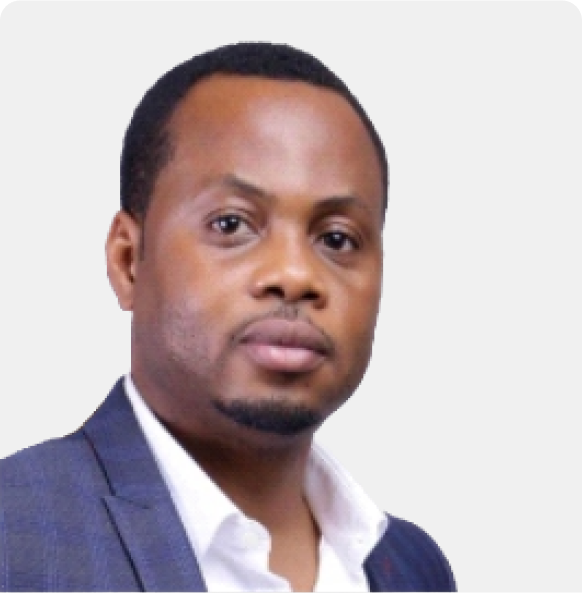
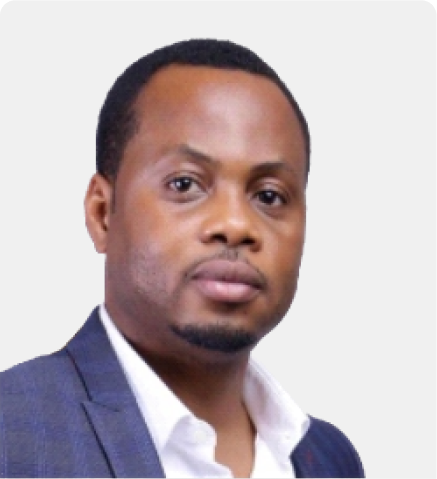
updated team images and added mission and vission to about page

Changed region(s): [[0.0297, 0.0585, 0.8627, 1.0], [0.0, 0.7599, 0.0297, 0.7891]]

diff --git a/src/modules/about/team/index.tsx b/src/modules/about/team/index.tsx
@@ -12,14 +12,29 @@ import {
   team10,
   team11,
   LinkedinIcon2,
+  team12,
+  team13,
+  team14,
 } from "assets";
 
 const Team = () => {
   const members: MemberProps[] = [
     {
+      image: team12,
+      name: "Professor Akpan Hogan Ekpo",
+      role: "Chairman Board of Directors",
+      linkedinURL: "",
+    },
+    {
+      image: team13,
+      name: "Kufre Ekpo Udeme",
+      role: "Managing Director",
+      linkedinURL: "",
+    },
+    {
       image: team1,
       name: "Tunde Obadero",
-      role: "Chief Executive Officer",
+      role: "Non Executive Director",
       linkedinURL: "https://www.linkedin.com/in/babatundeobadero/",
     },
     {
@@ -35,59 +50,65 @@ const Team = () => {
       linkedinURL: "https://www.linkedin.com/in/olaotan-olamuyiwa-30ba59112/",
     },
     {
-      image: team4,
-      name: "Obiora Onyekwelu",
-      role: "Head of Finance",
-      linkedinURL: "https://www.linkedin.com/in/obiora-onyekwelu-bb424476/",
+      image: team14,
+      name: "Olufemi Akinrotimi",
+      role: "Independent Non-Executive Director",
+      linkedinURL: "",
     },
-    {
-      image: team5,
-      name: "John Usang",
-      role: "Head, Zitra Microbusiness",
-      linkedinURL: "https://www.linkedin.com/in/john-usang-98367016b/",
-    },
-    {
-      image: team6,
-      name: "Adebola Shotinola PHRi™",
-      role: "Lead, People Operations",
-      linkedinURL: "https://www.linkedin.com/in/adebola-shotinola-phri%E2%84%A2-408828144/",
-    },
-    {
-      image: team7,
-      name: "Emmanuel Njoku",
-      role: "Head, Sales and Lending",
-      linkedinURL: "http://www.linkedin.com/in/emmanuel-njoku-a79a86a8",
-    },
-    {
-      image: team8,
-      name: "Ugochukwu Okere",
-      role: "Head of Funding",
-      linkedinURL: "https://www.linkedin.com/in/ugo-okere-4b7b02bb/",
-    },
-    {
-      image: team9,
-      name: "Nkechi Oseke",
-      role: "Head, Corporate Services",
-      linkedinURL: "https://www.linkedin.com/in/nkechi-oseke-747587318/",
-    },
-    {
-      image: team10,
-      name: "Obra Felix",
-      role: "Head Marketing, Strategy and Coms",
-      linkedinURL: "https://www.linkedin.com/in/obra-felix-436aa6154/",
-    },
-    {
-      image: team11,
-      name: "Oloriegbe Sheme",
-      role: "Head, Internal Control and Risk",
-      linkedinURL: "https://www.linkedin.com/in/sheme-oloriegbe-65218524a/",
-    },
+    // {
+    //   image: team4,
+    //   name: "Obiora Onyekwelu",
+    //   role: "Head of Finance",
+    //   linkedinURL: "https://www.linkedin.com/in/obiora-onyekwelu-bb424476/",
+    // },
+    // {
+    //   image: team5,
+    //   name: "John Usang",
+    //   role: "Head, Zitra Microbusiness",
+    //   linkedinURL: "https://www.linkedin.com/in/john-usang-98367016b/",
+    // },
+    // {
+    //   image: team6,
+    //   name: "Adebola Shotinola PHRi™",
+    //   role: "Lead, People Operations",
+    //   linkedinURL: "https://www.linkedin.com/in/adebola-shotinola-phri%E2%84%A2-408828144/",
+    // },
+    // {
+    //   image: team7,
+    //   name: "Emmanuel Njoku",
+    //   role: "Head, Sales and Lending",
+    //   linkedinURL: "http://www.linkedin.com/in/emmanuel-njoku-a79a86a8",
+    // },
+    // {
+    //   image: team8,
+    //   name: "Ugochukwu Okere",
+    //   role: "Head of Funding",
+    //   linkedinURL: "https://www.linkedin.com/in/ugo-okere-4b7b02bb/",
+    // },
+    // {
+    //   image: team9,
+    //   name: "Nkechi Oseke",
+    //   role: "Head, Corporate Services",
+    //   linkedinURL: "https://www.linkedin.com/in/nkechi-oseke-747587318/",
+    // },
+    // {
+    //   image: team10,
+    //   name: "Obra Felix",
+    //   role: "Head Marketing, Strategy and Coms",
+    //   linkedinURL: "https://www.linkedin.com/in/obra-felix-436aa6154/",
+    // },
+    // {
+    //   image: team11,
+    //   name: "Oloriegbe Sheme",
+    //   role: "Head, Internal Control and Risk",
+    //   linkedinURL: "https://www.linkedin.com/in/sheme-oloriegbe-65218524a/",
+    // },
   ];
   return (
     <>
       <section className={styles.bg}>
         <div className={`container ${styles.teamSec}`}>
-          <h2 className={styles.ttl}>Meet our team</h2>
+          <h3 className={styles.ttl}>Meet our team</h3>
           <p className={styles.txt}>
             Our team is built of exceptional professionals with years experience
             suited to meet your every needs

diff --git a/src/modules/about/missionVision/styles.module.scss b/src/modules/about/missionVision/styles.module.scss
@@ -1,0 +1,59 @@
+.container {
+  padding-top: 4rem;
+  padding-bottom: 4rem;
+  display: grid;
+  grid-template-columns: repeat(auto-fit, minmax(250px, 2fr));
+  gap: 2rem;
+}
+.container {
+  div {
+    background-color: #f2f2f2;
+    padding: 1.5rem;
+    border-radius: 16px;
+
+    &:first-of-type {
+      p {
+        width: 90%;
+      }
+    }
+
+    &:last-of-type {
+      p {
+        width: 70%;
+      }
+    }
+  }
+}
+.ttl {
+  color: #101319;
+  margin-bottom: 1rem;
+  font-size: 30px;
+}
+.txt {
+  color: #96999f;
+  font-size: 18px;
+  line-height: 1.5;
+}
+
+@media screen and (max-width: 800px) {
+  .container {
+    padding-top: 2rem;
+    padding-bottom: 2rem;
+    gap: 1rem;
+
+    div {
+      padding: 1rem;
+
+      p {
+        width: 90% !important;
+      }
+    }
+  }
+  .ttl {
+    font-size: 20px;
+    margin-bottom: 12px;
+  }
+  .txt {
+    font-size: 14px;
+  }
+}

diff --git a/src/modules/about/missionVision/index.tsx b/src/modules/about/missionVision/index.tsx
@@ -1,0 +1,27 @@
+import styles from "./styles.module.scss";
+
+const MissionVision = () => {
+  return (
+    <>
+      <section className={`container ${styles.container}`}>
+        <div>
+          <h2 className={styles.ttl}>Our mission</h2>
+          <p className={styles.txt}>
+            To become a leading financial service provider, with a focus on
+            impacting the community and connecting people to their financial
+            objectives while delivering value to our stakeholders.
+          </p>
+        </div>
+        <div>
+          <h2 className={styles.ttl}>Our vision</h2>
+          <p className={styles.txt}>
+            Providing financial freedom to our clients through creative and
+            sustainable solutions.
+          </p>
+        </div>
+      </section>
+    </>
+  );
+};
+
+export { MissionVision };

diff --git a/src/layout/footer/index.tsx b/src/layout/footer/index.tsx
@@ -74,11 +74,7 @@ const Footer: React.FC<FooterProps> = ({ submit, clear }) => {
                   <a href="mailto:info@zitrabank.com">info@zitrabank.com</a>
                 </li>
                 <li className={`${styles.item} ${styles.address}`}>
-                  Plot 267 Asebe street, Mabushi District, Casdastral Zone
-                  BO6, Abuja
-                </li>
-                <li className={`${styles.item} ${styles.address}`}>
-                  29 Aka Etinan Road, Uyo
+                  Address: 129 Aka Etinan Road, Uyo.
                 </li>
               </ul>
             </div>

diff --git a/src/assets/images/team/index.tsx b/src/assets/images/team/index.tsx
@@ -9,6 +9,9 @@ import team8 from "./team8.png";
 import team9 from "./team9.png";
 import team10 from "./team10.png";
 import team11 from "./team11.png";
+import team12 from "./team12.png";
+import team13 from "./team13.png";
+import team14 from "./team14.png";
 
 export {
   team1,
@@ -22,4 +25,7 @@ export {
   team9,
   team10,
   team11,
+  team12,
+  team13,
+  team14,
 };

diff --git a/src/modules/about/index.tsx b/src/modules/about/index.tsx
@@ -1,11 +1,13 @@
 import { Partners, SeamlessSavings } from "components";
 import { HeroSection } from "./heroSection";
 import { Team } from "./team";
+import { MissionVision } from "./missionVision";
 
 const AboutUI = () => {
   return (
     <>
       <HeroSection />
+      <MissionVision />
       <Partners />
       <Team />
       <SeamlessSavings />
